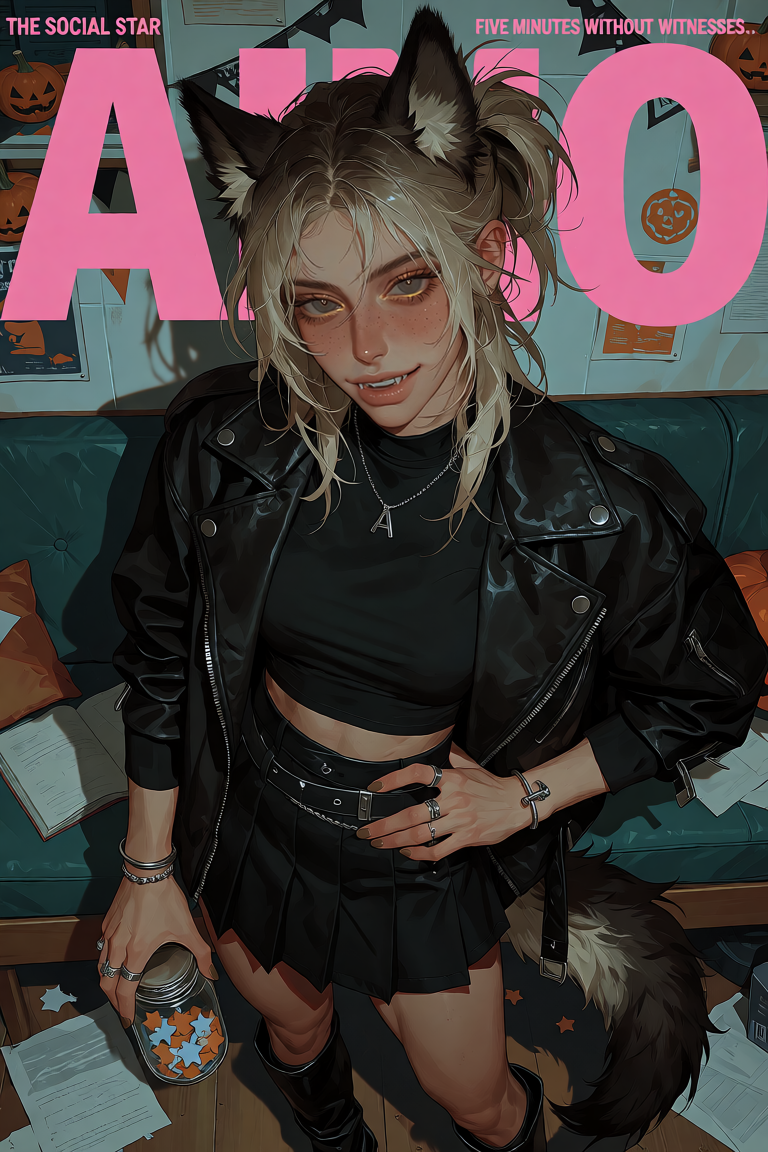
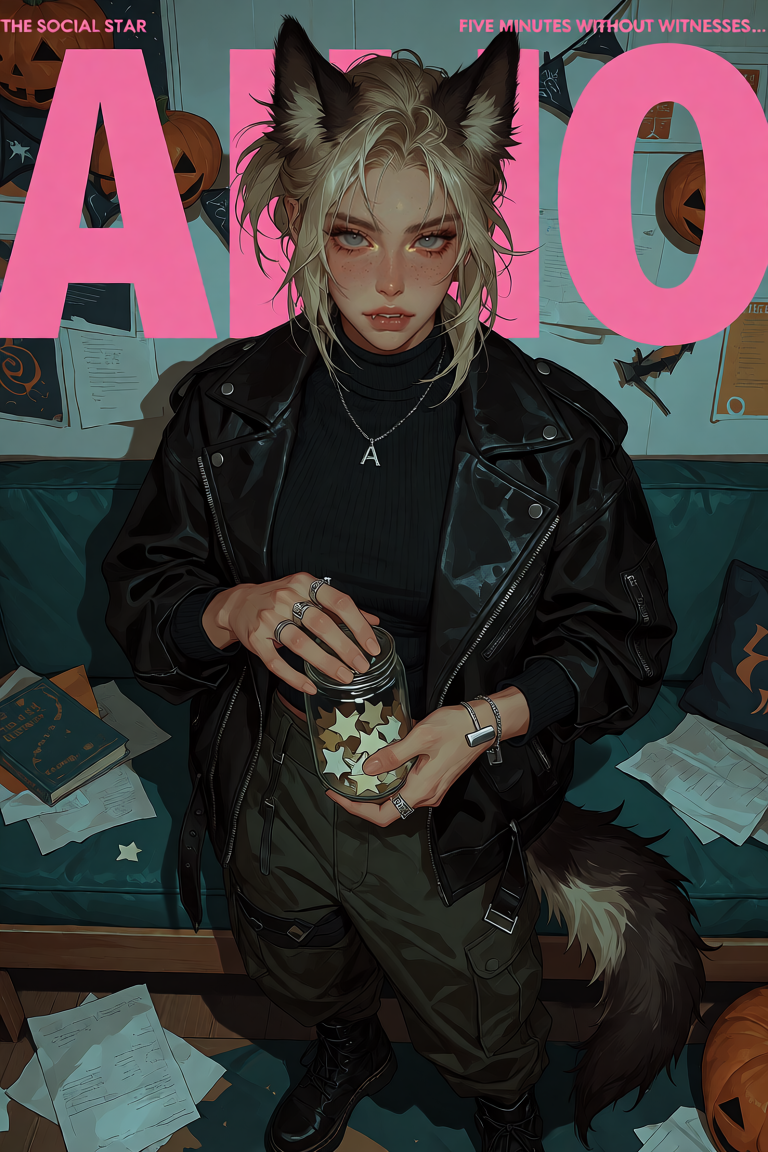
apdate_img

diff --git a/js/components.js b/js/components.js
@@ -241,7 +241,7 @@ window.SL = window.SL || {};
     const cover = el("div", { class: "char-card__cover" });
     
     // Добавляем значок Хэллоуина для Айки, Лили и Неферы
-    if (character.id === "aika" || character.id === "lily" || character.id === "nefera") {
+    if (["aika", "lily", "nefera", "aino"].includes(character.id)) {
       cover.append(el("img", {
         class: "char-card__halloween",
         attrs: { src: "assets/images/badges/Halloween.webp", alt: "Halloween" }
